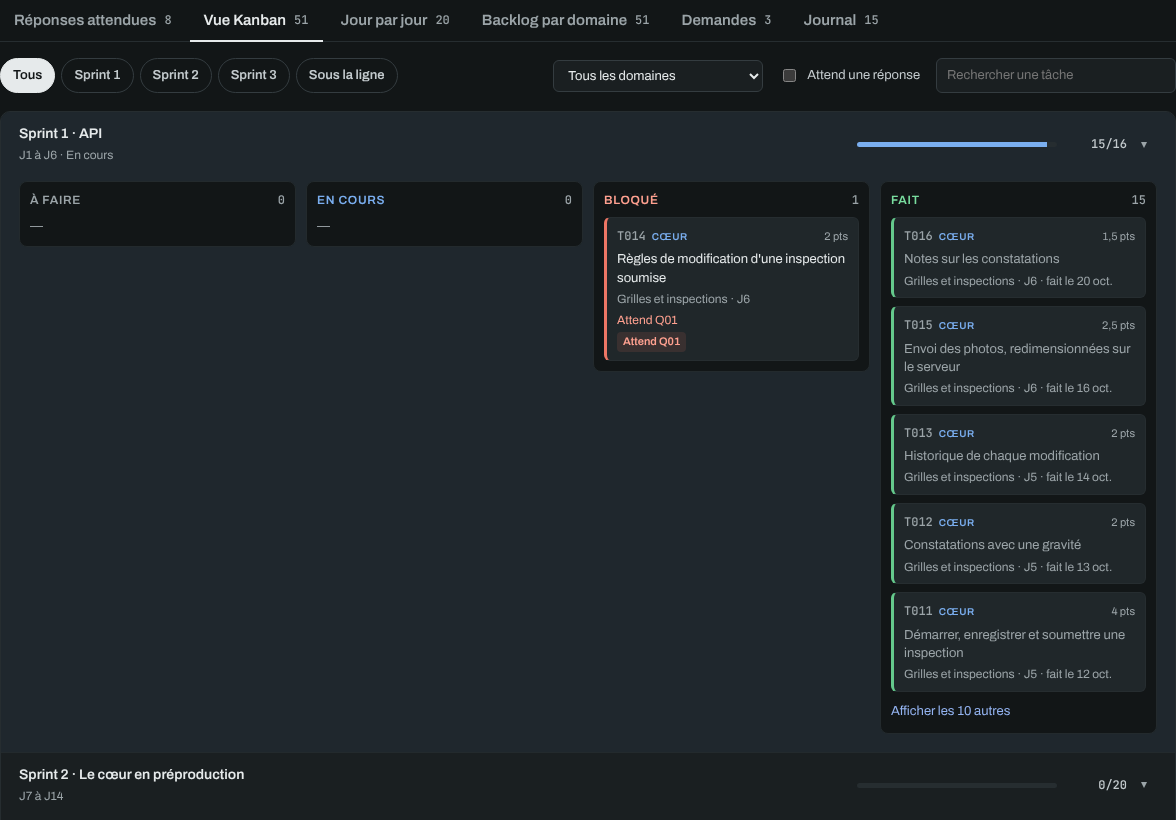
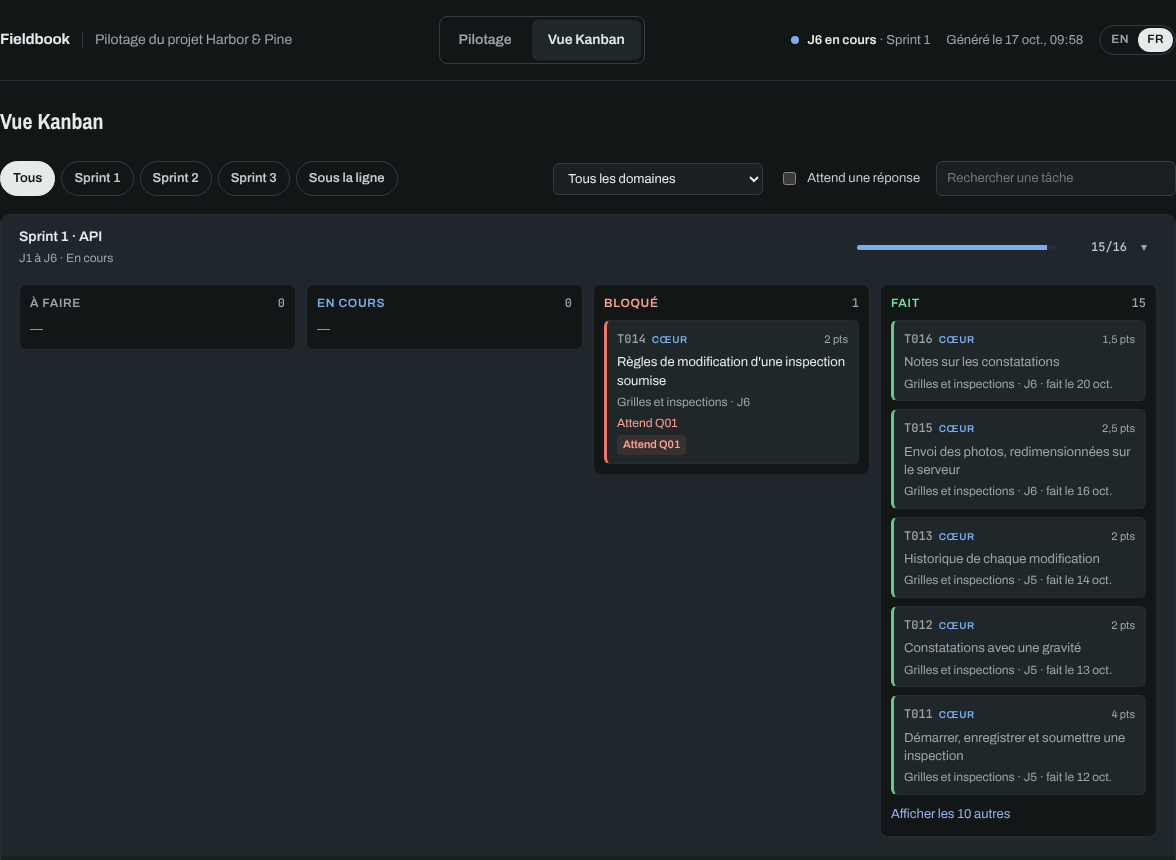
The board gets its own page, chosen from a menu in the header
On the first real project, the board sat in a tab at the bottom of a long overview, a scroll
away from anything the reader opens the page for. The header now carries a menu of two pages:
Overview, the steering page as it was, and Board ("Vue Kanban"), the board alone. The board
leaves the tabs of the overview. `…#board` still opens it directly, and switching pages keeps
the address up to date where the host allows it. The README screenshots of the board are
retaken with the menu.

Claude-Session: https://claude.ai/code/session_018M2hAGTFZyuoYDupUGNBnd

diff --git a/templates/dashboard.html b/templates/dashboard.html
@@ -38,6 +38,12 @@ h2 { margin: 0; font: 700 22px/1.1 var(--font-title); text-wrap: balance; }
 .brand b { font: 700 15px/1 var(--font); letter-spacing: -0.01em; }
 .brand i { width: 1px; height: 14px; background: var(--line-strong); }
 .brand span { color: var(--muted); }
+.nav { display: inline-flex; gap: 4px; padding: 3px; border: 1px solid var(--line-strong); border-radius: 8px; }
+.nav button { min-height: 40px; border: 0; background: transparent; color: var(--muted); border-radius: 6px; padding: 0 16px; font: 600 14px/1 var(--font); }
+.nav button:hover { color: var(--text); }
+.nav button[aria-current="page"] { background: var(--card-2); color: var(--text); }
+.screen { display: flex; flex-direction: column; gap: 28px; }
+.screen[hidden] { display: none; }
 .today { display: flex; flex-wrap: wrap; align-items: center; gap: 16px; font-size: 13px; color: var(--muted); }
 .today .pill { display: inline-flex; align-items: center; gap: 8px; }
 .today .pill::before { content: ""; width: 8px; height: 8px; border-radius: 50%; background: var(--accent); }
@@ -334,40 +340,49 @@ details.lane[open] > .lane-head { margin-bottom: 8px; }
 <div class="page">
   <header class="top">
     <h1 class="brand" id="brand"></h1>
+    <nav class="nav" id="nav"></nav>
     <div class="today" id="today"></div>
   </header>
 
-  <section class="card explain" aria-labelledby="thesis">
-    <h2 class="thesis" id="thesis"></h2>
-    <div class="explain-grid">
-      <div class="explain-text" id="explain-text"></div>
-      <div class="scroll"><table class="calc-table" id="calc-table"></table><p class="calc-note" id="calc-note"></p></div>
-    </div>
-  </section>
+  <!-- Two pages, chosen in the header: the steering overview, and the board on its own. -->
+  <div class="screen" id="screen-overview">
+    <section class="card explain" aria-labelledby="thesis">
+      <h2 class="thesis" id="thesis"></h2>
+      <div class="explain-grid">
+        <div class="explain-text" id="explain-text"></div>
+        <div class="scroll"><table class="calc-table" id="calc-table"></table><p class="calc-note" id="calc-note"></p></div>
+      </div>
+    </section>
 
-  <section class="hero" id="hero">
-    <article class="card projection" id="card-core"></article>
-    <article class="card projection" id="card-all"></article>
-    <div class="kpis" id="kpis"></div>
-  </section>
+    <section class="hero" id="hero">
+      <article class="card projection" id="card-core"></article>
+      <article class="card projection" id="card-all"></article>
+      <div class="kpis" id="kpis"></div>
+    </section>
 
-  <section class="card timeline-card" aria-labelledby="timeline-title">
-    <div class="title-row">
-      <h2 id="timeline-title"></h2>
-      <div class="legend" id="legend"></div>
-    </div>
-    <div class="scroll"><div class="timeline" id="timeline"></div></div>
-    <div class="milestones" id="milestones"></div>
-  </section>
+    <section class="card timeline-card" aria-labelledby="timeline-title">
+      <div class="title-row">
+        <h2 id="timeline-title"></h2>
+        <div class="legend" id="legend"></div>
+      </div>
+      <div class="scroll"><div class="timeline" id="timeline"></div></div>
+      <div class="milestones" id="milestones"></div>
+    </section>
 
-  <section class="duo">
-    <div class="card panel" id="urgent"></div>
-    <div class="card panel"><h2 id="risks-title"></h2><div id="risks"></div></div>
-  </section>
+    <section class="duo">
+      <div class="card panel" id="urgent"></div>
+      <div class="card panel"><h2 id="risks-title"></h2><div id="risks"></div></div>
+    </section>
 
-  <section class="detail" id="detail">
-    <div class="tabs" role="tablist" id="tabs"></div>
-    <div class="view" id="view" role="tabpanel"></div>
+    <section class="detail" id="detail">
+      <div class="tabs" role="tablist" id="tabs"></div>
+      <div class="view" id="view" role="tabpanel"></div>
+    </section>
+  </div>
+
+  <section class="screen" id="screen-board" aria-labelledby="board-title" hidden>
+    <h2 id="board-title"></h2>
+    <div class="view" id="board-view"></div>
   </section>
 </div>
 
@@ -445,8 +460,19 @@ const byWho = (xs) => [...new Set([...(D.people || []), ...xs.map((x) => x.who)]
   .map((who) => [who, xs.filter((x) => x.who === who)]).filter(([, l]) => l.length);
 const ALL = '*';
 
-/* Header, with the language switch */
+/* Header, with the menu of pages and the language switch */
 const sprint = sprintOf(C.currentDay);
+const PAGES = ['overview', 'board'];
+function renderNav() {
+  $('nav').setAttribute('aria-label', t('nav.label'));
+  $('nav').innerHTML = PAGES.map((p) => `<button type="button" data-page="${p}"${state.page === p ? ' aria-current="page"' : ''}>${t('nav.' + p)}</button>`).join('');
+}
+function showPage() {
+  renderNav();
+  $('screen-overview').hidden = state.page !== 'overview';
+  $('screen-board').hidden = state.page !== 'board';
+  if (state.page === 'board') viewBoard();
+}
 function renderHeader() {
   $('brand').innerHTML = `<b>${esc(P.name)}</b><i aria-hidden="true"></i><span>${esc(P.client ? t('header.subtitleClient', { client: P.client }) : t('header.subtitle'))}</span>`;
   const langs = LANGS.length > 1 ? `<span class="lang" role="group" aria-label="${esc(t('header.language'))}">${LANGS.map((l) => `<button type="button" lang="${l}" data-lang="${l}" aria-pressed="${l === lang}">${l.toUpperCase()}</button>`).join('')}</span>` : '';
@@ -602,7 +628,7 @@ function renderRisks() {
 
 /* Detail tabs */
 const tabs = () => [
-  ['answers', t('tabs.answers'), open.length], ['board', t('tabs.board'), allTasks.filter((x) => x.status !== 'deferred').length],
+  ['answers', t('tabs.answers'), open.length],
   ['days', t('tabs.days'), plan.length],
   ['areas', t('tabs.areas'), allTasks.filter((x) => x.status !== 'deferred').length],
   ...(D.requests.length ? [['requests', t('tabs.requests'), D.requests.length]] : []),
@@ -610,6 +636,7 @@ const tabs = () => [
 ];
 const anchor = (typeof location !== 'undefined' && location.hash.slice(1)) || '';
 const state = {
+  page: anchor === 'board' ? 'board' : 'overview',
   tab: tabs().some(([id]) => id === anchor) ? anchor : 'answers', who: ALL, sprint: ALL, hideDone: false,
   openDay: C.currentDay, request: ALL, openEntries: new Set(), areaFilter: 'all', search: '', openAreas: new Set(),
   boardSprint: ALL, boardArea: ALL, boardWaiting: false, boardSearch: '', allDone: new Set(), openRows: new Set(C.board.filter((r) => r.open).map((r) => r.id)),
@@ -663,7 +690,8 @@ function viewBoard() {
     .map(([v, l]) => `<button type="button" class="filter" aria-pressed="${state.boardSprint === v}" data-board-sprint="${esc(v)}">${esc(l)}</button>`).join('');
   const areas = D.areas.length ? `<select class="select" id="board-area" aria-label="${esc(t('board.area'))}">${[[ALL, t('board.allAreas')], ...D.areas.map((a) => [a.id, a.title])]
     .map(([v, l]) => `<option value="${esc(v)}"${state.boardArea === v ? ' selected' : ''}>${esc(l)}</option>`).join('')}</select>` : '';
-  $('view').innerHTML = `<div class="tools"><div class="chips">${chips}</div><div class="board-tools">${areas}
+  $('board-title').textContent = t('nav.board');
+  $('board-view').innerHTML = `<div class="tools"><div class="chips">${chips}</div><div class="board-tools">${areas}
     <label class="check"><input type="checkbox" id="board-waiting" ${state.boardWaiting ? 'checked' : ''}> ${t('board.waiting')}</label>
     <input type="search" class="search" id="board-search" placeholder="${esc(t('areas.search'))}" aria-label="${esc(t('areas.search'))}" value="${esc(state.boardSearch)}"></div></div>
     <div class="list" id="board-rows"></div>`;
@@ -702,7 +730,7 @@ function listBoard() {
   }
   $('board-rows').innerHTML = html || `<p class="empty">${t(filtered ? 'areas.noMatch' : 'board.none')}</p>`;
 }
-narrowQuery?.addEventListener?.('change', () => { if (state.tab === 'board') listBoard(); });
+narrowQuery?.addEventListener?.('change', () => { if (state.page === 'board') listBoard(); });
 
 function viewDays() {
   const chips = [[ALL, t('filters.all')], ...D.sprints.map((s) => [String(s.id), t('sprint', { id: s.id })]), ...(later ? [[LATER, t('later.long')]] : [])]
@@ -817,6 +845,7 @@ function renderPage() {
   renderRisks();
   $('detail').setAttribute('aria-label', t('tabs.label'));
   renderDetail();
+  showPage();
 }
 
 document.addEventListener('click', (e) => {
@@ -826,6 +855,13 @@ document.addEventListener('click', (e) => {
   if (d.lang) {
     try { localStorage.setItem(LANG_KEY, d.lang); } catch { /* no storage: the choice lasts as long as the page */ }
     return keepFocus(() => { setLang(d.lang); renderPage(); });
+  }
+  if (d.page) {
+    state.page = d.page;
+    // The address keeps the page, so a shared link or a reload opens the board again.
+    try { history.replaceState(null, '', d.page === 'board' ? '#board' : location.pathname + location.search); } catch { /* sandboxed host: the page still switches */ }
+    keepFocus(showPage);
+    return window.scrollTo({ top: 0, behavior: 'auto' });
   }
   if (d.risk !== undefined) {
     const r = RISKS[Number(d.risk)];

diff --git a/docs/design/board.md b/docs/design/board.md
@@ -8,7 +8,7 @@ Project management tools all have a view solopilot lacked: a board where each ta
 
 The dashboard showed the tasks in two ways: day by day, where each day has to be unfolded, and by area, as lists. Neither answers fast the question the developer asks when starting their day, or the PO when opening the page: *in this sprint, what is done, what is moving, what is left, and what is stuck?*
 
-This work adds a **Board** tab to the dashboard: the tasks as cards, in columns by status, one row per sprint.
+This work adds a **Board** page to the dashboard: the tasks as cards, in columns by status, one row per sprint. A menu in the header switches between it and the steering overview.
 
 ## Why not an existing tool
 
@@ -104,8 +104,8 @@ How the tasks spread (which sprint, which column, which order, which rows open b
 3. **A task waiting on an answer.** *It stays in its column, with the "Waits on Q03" badge.* Only the `blocked` status, set by the developer with its note, puts it in "Blocked".
 4. **The open rows.** *The sprint of the current day, and any row with work in progress.* The draft also opened past sprints not delivered; there are none, since the current day is the first one not finished.
 5. **Moving the cards.** *None: the board is read only.*
-6. **The tab it opens on.** *"Pending answers" stays the first tab, and the board comes second.* A link to `…#board` opens the board directly, to share it.
-7. **The tab's name.** *"Board" in English, "Vue Kanban" in French.* The draft proposed "Tableau", which reads too close to "tableau de bord", the dashboard the tab lives in; "Kanban" is the word French project tools use.
+6. **Where it lives.** *A page of its own, chosen from a menu in the header: "Overview" ("Pilotage") and "Board" ("Vue Kanban").* It was first a second tab under the overview, at the bottom of a long page: the first real user found it too far down to read, and asked for the header to carry a menu. The overview opens by default; a link to `…#board` opens the board directly, to share it, and switching pages keeps that address up to date.
+7. **The page's name.** *"Board" in English, "Vue Kanban" in French.* The draft proposed "Tableau", which reads too close to "tableau de bord", the dashboard the page lives in; "Kanban" is the word French project tools use.
 
 ## How it is tested
 

diff --git a/CHANGELOG.md b/CHANGELOG.md
@@ -2,7 +2,7 @@
 
 ## Unreleased
 
-- The dashboard has a **Board** tab: the tasks as cards, in columns by status (to do, in progress, blocked, done), one row per sprint, then what sits below the line. The sprint of the current day and any row with work in progress open; the others fold. A card carries its area, points, views, day, the note of a blocked task and the answers it waits on; tasks of the core are marked. Filters by sprint, area, waiting on an answer, and a search. "Done" shows its five most recent cards first. Read only: a status still changes through `/solopilot`. `…#board` opens it directly ([design](docs/design/board.md)).
+- The dashboard has two pages, chosen from a menu in its header: **Overview**, the steering page as before, and the **Board**: the tasks as cards, in columns by status (to do, in progress, blocked, done), one row per sprint, then what sits below the line. The sprint of the current day and any row with work in progress open; the others fold. A card carries its area, points, views, day, the note of a blocked task and the answers it waits on; tasks of the core are marked. Filters by sprint, area, waiting on an answer, and a search. "Done" shows its five most recent cards first. Read only: a status still changes through `/solopilot`. `…#board` opens it directly ([design](docs/design/board.md)).
 - The skill talks to the developer in the language they write in, and in the plan's language until they have written anything: a bare `/solopilot` on a French plan no longer answers in English.
 - End-to-end scenarios in French: `first-plan-fr`, the first plan from the French documents of Fieldbook, and `daily-fr`, an end-of-session update on the French demo, with commits written in French. `daily-en` runs the update with a developer typing in English; `daily` keeps a developer typing in French on an English plan, on purpose.
 - Your own questions and dependencies (`who` is `project.owner`) are asked of nobody: they no longer show as never asked, nor as to chase.

diff --git a/README.fr.md b/README.fr.md
@@ -48,9 +48,9 @@ npm run demo:fr                            # puis ouvrir examples/demo-fr/build/
 
 ![Le tableau de bord de la démo Fieldbook, à mi-parcours : la projection, le calendrier, chaque jour, les réponses attendues](docs/dashboard.fr.gif)
 
-Son onglet **Vue Kanban** montre les tâches en cartes, en colonnes par statut (à faire, en cours, bloqué, fait), une rangée par sprint : le sprint en cours ouvert, les autres repliés, chaque carte avec ses points et la réponse qu'elle attend. Il ne fait que lire le plan : un statut change par `/solopilot`, à partir de vos commits.
+Un menu dans son en-tête mène à une seconde page, la **Vue Kanban** : les tâches en cartes, en colonnes par statut (à faire, en cours, bloqué, fait), une rangée par sprint : le sprint en cours ouvert, les autres repliés, chaque carte avec ses points et la réponse qu'elle attend. Il ne fait que lire le plan : un statut change par `/solopilot`, à partir de vos commits.
 
-![L'onglet Vue Kanban de la démo Fieldbook : le sprint 1 avec sa tâche bloquée et ses cartes faites, le sprint 2 en dessous](docs/board.fr.png)
+![La page Vue Kanban de la démo Fieldbook : le sprint 1 avec sa tâche bloquée et ses cartes faites, le sprint 2 en dessous](docs/board.fr.png)
 
 [examples/demo-fr](examples/demo-fr) contient les deux : les documents dans `sources/`, et le plan tel qu'il est le 21 octobre, au bout d'un mois. [examples/demo](examples/demo) raconte la même histoire en anglais.
 

diff --git a/README.md b/README.md
@@ -48,9 +48,9 @@ npm run demo                               # then open examples/demo/build/index
 
 ![The dashboard of the Fieldbook demo, mid-way: the projection, the calendar, each day, the answers awaited](docs/dashboard.gif)
 
-Its **Board** tab shows the tasks as cards, in columns by status (to do, in progress, blocked, done), one row per sprint: the sprint under way open, the others folded, each card with its points and the answer it waits on. It only reads the plan: a status changes through `/solopilot`, from your commits.
+A menu in its header leads to a second page, the **Board**: the tasks as cards, in columns by status (to do, in progress, blocked, done), one row per sprint: the sprint under way open, the others folded, each card with its points and the answer it waits on. It only reads the plan: a status changes through `/solopilot`, from your commits.
 
-![The Board tab of the Fieldbook demo: sprint 1 with its blocked task and its done cards, sprint 2 below](docs/board.png)
+![The Board page of the Fieldbook demo: sprint 1 with its blocked task and its done cards, sprint 2 below](docs/board.png)
 
 [examples/demo](examples/demo) holds both: the documents in `sources/`, and the plan as it stands on October 21, a month in. [examples/demo-fr](examples/demo-fr) tells the same story in French.
 

diff --git a/docs/roadmap.md b/docs/roadmap.md
@@ -15,7 +15,7 @@ The first plan comes first: from the project documents to a dated plan, in six s
 
 Then solopilot went public, on October 12, 2026: the repository is open, 0.3.0 is on npm, the tests run on Linux, macOS and Windows at every push, and testers have a trial report to tell how it went ([design](design/public-release.md)).
 
-The first need from real use followed: a **board** of the tasks by sprint, in columns by status, as a tab of the dashboard rather than a project management tool to keep in sync ([design](design/board.md)).
+The first need from real use followed: a **board** of the tasks by sprint, in columns by status, as a page of the dashboard, reached from its header, rather than a project management tool to keep in sync ([design](design/board.md)).
 
 ## Next
 
